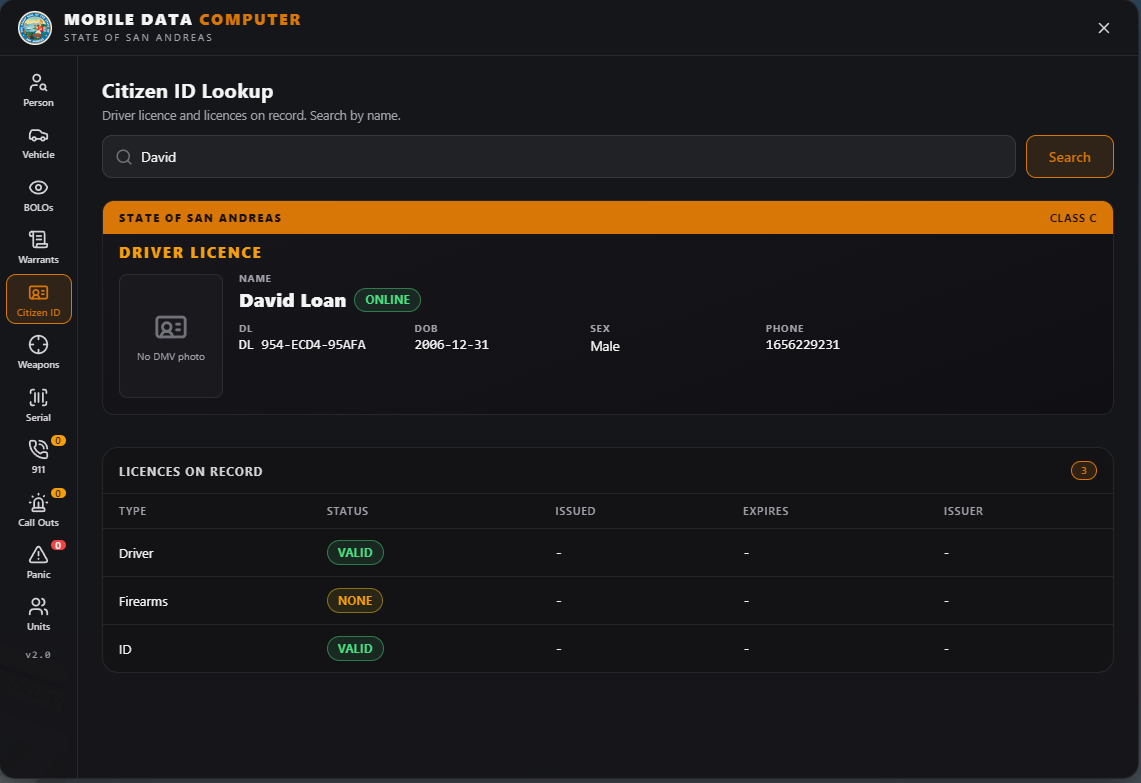
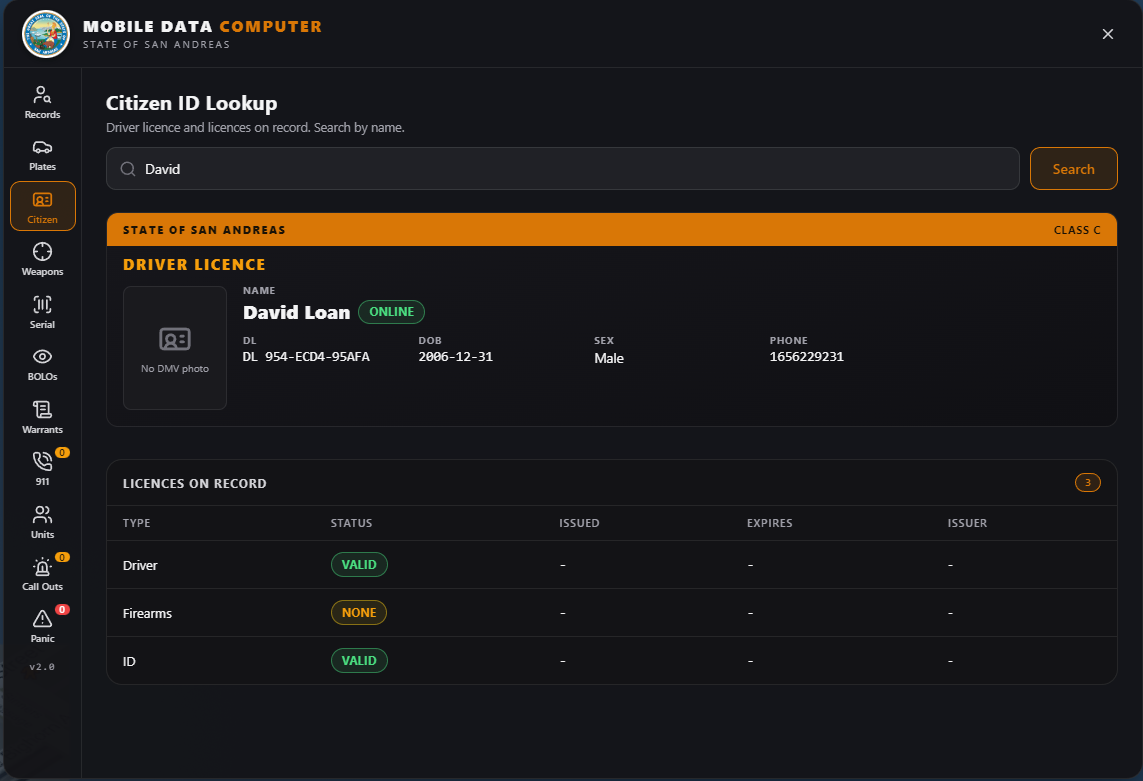
Refresh screenshots; amber header on the README
Eleven captures replacing the old set, taken on the current build: the
compact plate search with the owner record and the dismissal flow visible,
the simplified Active Units row, and the reordered rail.

The README now opens with the state seal, the project name and badges in the
same amber the interface uses (d97706 / f59e0b / b45309 on a 1a1a1e ground),
so the page and the product read as one thing. GitHub renders markdown
without stylesheets, so the palette lives in the badges and the artwork
rather than in CSS.

Three dispatch captures are omitted: this build has no 911, call outs or
panic. The weapon serial capture is omitted too, since it still shows the
two buttons that Toggle Missing replaced.

diff --git a/README.md b/README.md
@@ -1,14 +1,26 @@
-# Mobile Data Computer (MDC)
+<div align="center">
 
-A police records terminal for FiveM. Person, plate, citizen and weapon lookups,
-a penal code with an arrest calculator, BOLOs, warrants, and a mugshot / DMV
-photo pipeline, in one NUI.
+<img src="html/logo.png" width="96" alt="" />
+
+# Mobile Data Computer
+
+**A police records terminal for FiveM**
+
+[![Framework](https://img.shields.io/badge/framework-Qbox-d97706?style=for-the-badge&labelColor=1a1a1e)](https://github.com/Qbox-project)
+[![Interface](https://img.shields.io/badge/interface-NUI-f59e0b?style=for-the-badge&labelColor=1a1a1e)](#)
+[![Portable](https://img.shields.io/badge/portable-2%20adapter%20files-b45309?style=for-the-badge&labelColor=1a1a1e)](#porting-to-another-framework)
+[![Licence](https://img.shields.io/badge/licence-MIT-d97706?style=for-the-badge&labelColor=1a1a1e)](LICENSE)
+
+Person, plate, citizen and weapon lookups, a penal code with an arrest
+calculator, BOLOs, warrants, and a mugshot / DMV photo pipeline, in one NUI.
+
+<img src="docs/person-record.png" alt="Person Search" width="880" />
+
+</div>
 
 Ships targeting **Qbox** (`qbx_core`), but every framework and database call
 lives behind two adapter files, so porting is a contained job rather than a
 rewrite. See [Porting](#porting-to-another-framework).
-
-![Person Search](docs/person-record.png)
 
 ## Scope
 
@@ -54,9 +66,23 @@ A citizen record leads with the mugshot, identity and lifetime totals.
 Outstanding charges are always visible; prior record sits behind a toggle, so
 the default view answers "what are they wanted for right now".
 
-| Search | Record history expanded |
+| Two outstanding charges | History revealed, showing a dismissal |
 | --- | --- |
-| ![Person search](docs/person-search.png) | ![Record history](docs/person-history.png) |
+| ![Person record](docs/person-record.png) | ![Record history](docs/person-history.png) |
+
+An empty search and a clean record read the same way, so a citizen with nothing
+on file is unmistakable:
+
+![Person search](docs/person-search.png)
+
+### Plate search
+
+Running a plate answers *who am I about to stop*, not just *what is this car*.
+The registration sits above the registered owner's full record, so outstanding
+charges are on screen without scrolling. The `Dismiss` button and the
+`Dismissed by David_Loan` row show the dismissal flow end to end.
+
+![Plate search](docs/plate-search.png)
 
 ### Citizen ID
 
@@ -67,12 +93,10 @@ one taken at the DMV, never the arrest mugshot.
 
 ### Weapons
 
-Registered firearms by owner, and lookup by serial with missing / stolen flags
-and a jump straight into the arrest calculator.
+Registered firearms by owner, with a status per serial. `Toggle Missing` flips a
+weapon in and out of missing from the serial lookup.
 
-| Registered weapons | Serial lookup |
-| --- | --- |
-| ![Weapon list](docs/weapon-list.png) | ![Weapon serial](docs/weapon-serial.png) |
+![Registered weapons](docs/weapon-list.png)
 
 ### Arrest calculator
 
@@ -80,9 +104,7 @@ The penal code with per-charge modifiers, a live jail and fine total, and
 **multiple suspects per incident**: the same charge set is applied to everyone
 involved, resolved server side before anything is written.
 
-| Penal code | Charges and targets |
-| --- | --- |
-| ![Penal code](docs/penal-code.png) | ![Arrest calculator](docs/arrest-calculator.png) |
+![Arrest calculator](docs/arrest-calculator.png)
 
 ### BOLOs
 
@@ -90,16 +112,15 @@ Alerts carry multiple images with an inline carousel and a fullscreen viewer.
 Each one has a configurable expiry, shown as a live countdown that turns red in
 its final hour.
 
-![BOLOs](docs/bolos.png)
-
-| Create | Fullscreen viewer |
+| Create and browse | Fullscreen viewer |
 | --- | --- |
-| ![Create a BOLO](docs/bolo-create.png) | ![Image viewer](docs/bolo-lightbox.png) |
+| ![BOLOs](docs/bolos.png) | ![Image viewer](docs/bolo-lightbox.png) |
 
 ### Warrants and units
 
 Warrants are derived from outstanding charges rather than tracked separately, so
-they can never disagree with a citizen's record.
+they can never disagree with a citizen's record. Active Units groups officers
+under their callsign.
 
 | Warrants | Active units |
 | --- | --- |
